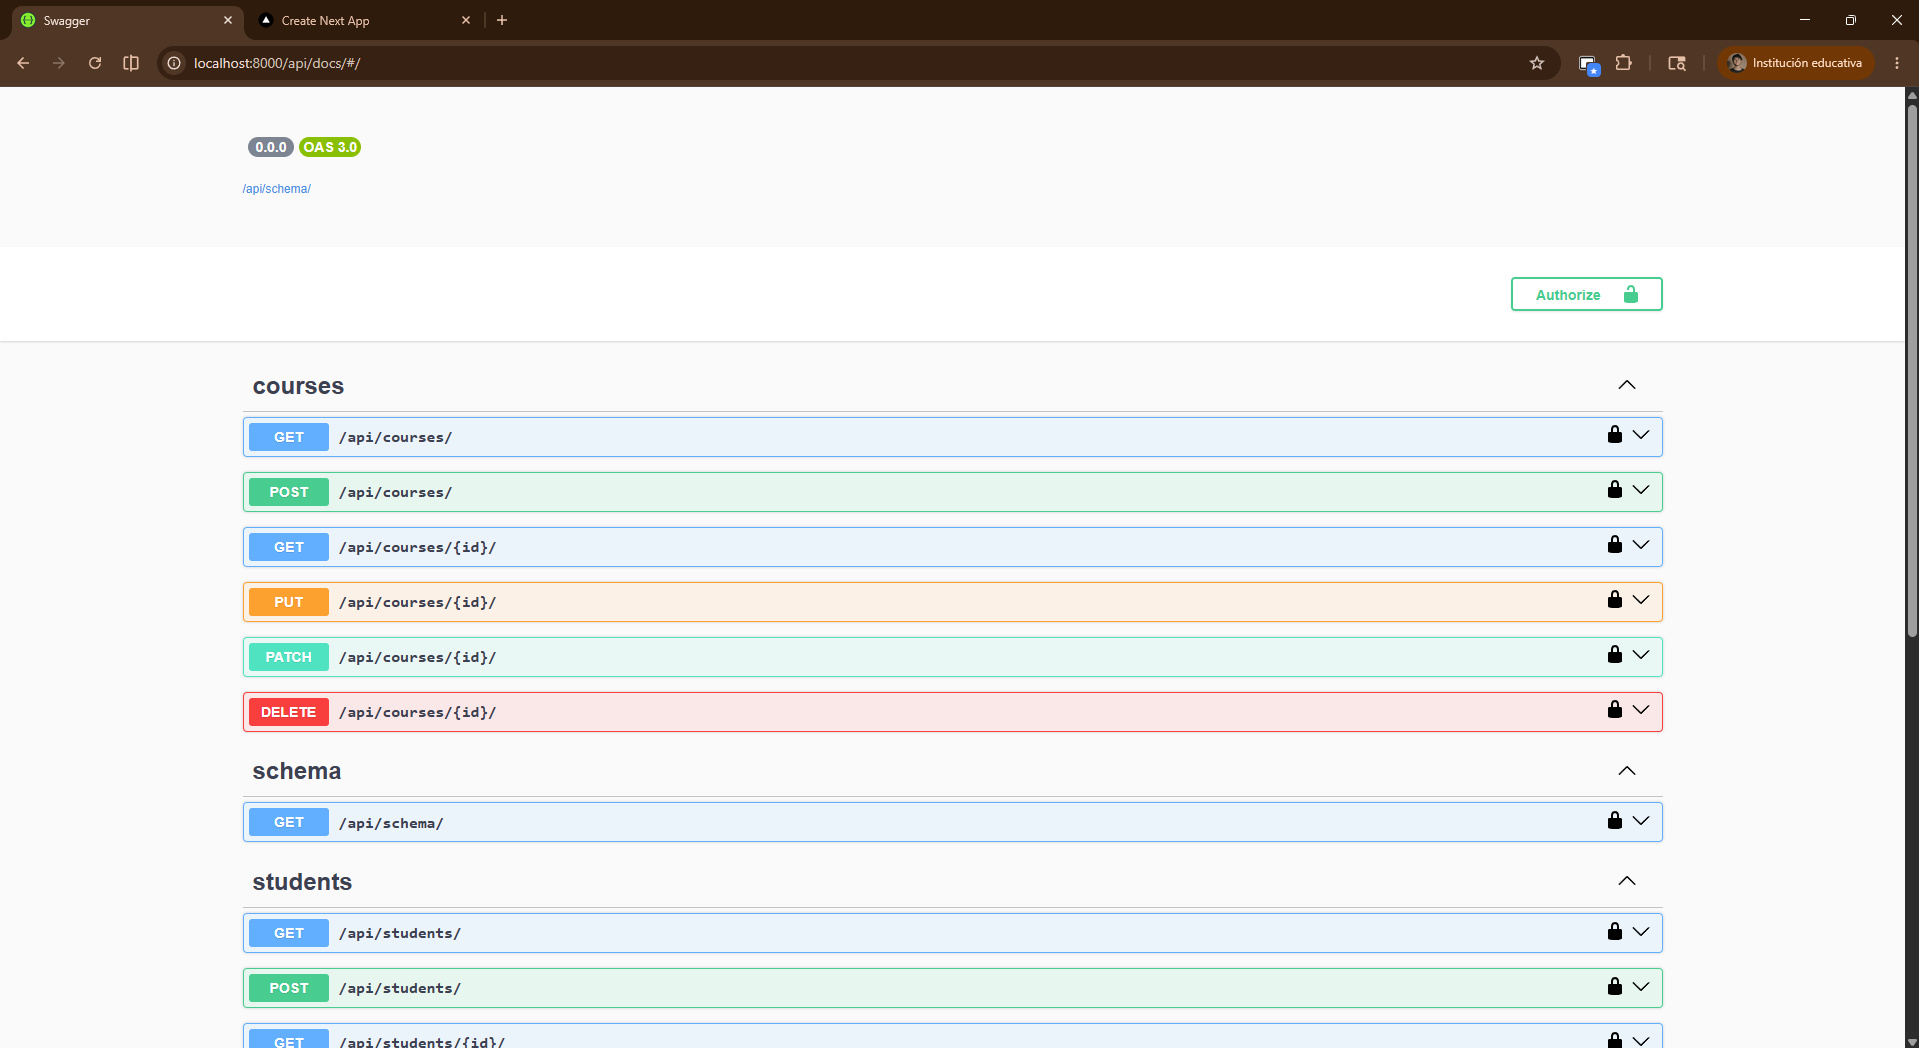
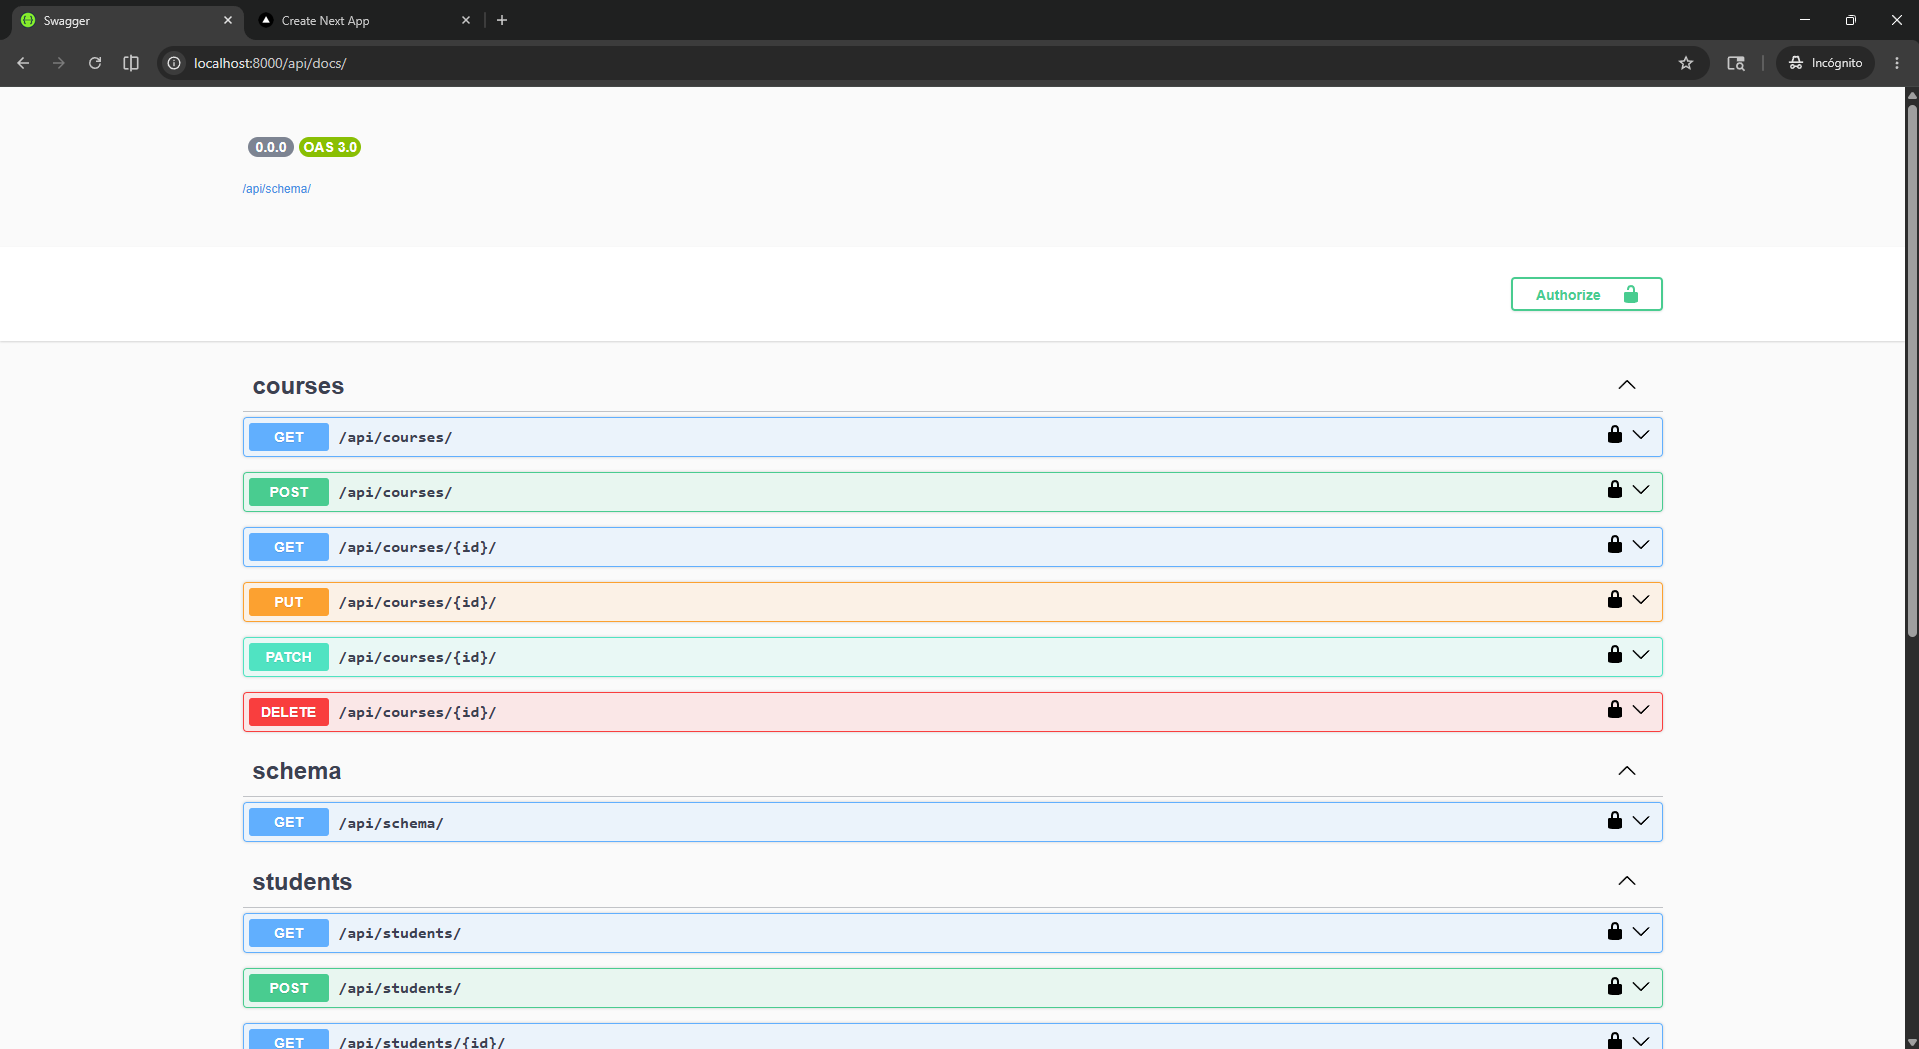
Finalizado: Formulario de cursos con checkbox Activo y evidencias actualizadas

diff --git a/frontend/src/components/ui/checkbox.jsx b/frontend/src/components/ui/checkbox.jsx
@@ -1,0 +1,29 @@
+"use client"
+
+import { Checkbox as CheckboxPrimitive } from "@base-ui/react/checkbox"
+
+import { cn } from "@/lib/utils"
+import { CheckIcon } from "lucide-react"
+
+function Checkbox({
+  className,
+  ...props
+}) {
+  return (
+    <CheckboxPrimitive.Root
+      data-slot="checkbox"
+      className={cn(
+        "peer relative flex size-4 shrink-0 items-center justify-center rounded-[4px] border border-input transition-colors outline-none group-has-disabled/field:opacity-50 after:absolute after:-inset-x-3 after:-inset-y-2 focus-visible:border-ring focus-visible:ring-3 focus-visible:ring-ring/50 disabled:cursor-not-allowed disabled:opacity-50 aria-invalid:border-destructive aria-invalid:ring-3 aria-invalid:ring-destructive/20 aria-invalid:aria-checked:border-primary dark:bg-input/30 dark:aria-invalid:border-destructive/50 dark:aria-invalid:ring-destructive/40 data-checked:border-primary data-checked:bg-primary data-checked:text-primary-foreground dark:data-checked:bg-primary",
+        className
+      )}
+      {...props}>
+      <CheckboxPrimitive.Indicator
+        data-slot="checkbox-indicator"
+        className="grid place-content-center text-current transition-none [&>svg]:size-3.5">
+        <CheckIcon />
+      </CheckboxPrimitive.Indicator>
+    </CheckboxPrimitive.Root>
+  );
+}
+
+export { Checkbox }

diff --git a/frontend/src/app/dashboard/courses/page.jsx b/frontend/src/app/dashboard/courses/page.jsx
@@ -34,6 +34,8 @@ import {
   SelectValue,
 } from "@/components/ui/select";
 import { AlertCircle, CheckCircle2 } from "lucide-react";
+import { Checkbox } from "@/components/ui/checkbox";
+
 
 const coursesSchema = z.object({
   name: z.string().min(2, "El nombre debe tener al menos 2 caracteres"),
@@ -48,6 +50,7 @@ const coursesSchema = z.object({
     ["basic", "intermediate", "advanced"],
     "Selecciona un nivel válido",
   ),
+  is_active: z.boolean().default(true),
 });
 const LEVEL_LABELS = {
   basic: "Básico",
@@ -66,7 +69,7 @@ export default function CoursesPage() {
     handleSubmit,
     reset,
     control,
-    formState: { errors, isSubmitting },
+    ...rest
   } = useForm({
     resolver: zodResolver(coursesSchema),
     defaultValues: {
@@ -75,8 +78,11 @@ export default function CoursesPage() {
       price: 0,
       duration_hours: 0,
       level: "basic",
+      is_active: true,
     },
   });
+
+  const { errors, isSubmitting } = rest.formState;
 
   const loadCourses = async () => {
     try {
@@ -107,7 +113,7 @@ export default function CoursesPage() {
     } catch (err) {
       setError(
         err.response?.data?.detail ||
-          "Error al crear el curso. Es posible que el nombre ya exista.",
+        "Error al crear el curso. Es posible que el nombre ya exista.",
       );
     }
   };
@@ -187,6 +193,20 @@ export default function CoursesPage() {
                   )}
                 </div>
                 <div className="space-y-2">
+                  <Label htmlFor="is_active">Activo</Label>
+                  <Controller
+                    name="is_active"
+                    control={control}
+                    render={({ field }) => (
+                      <Checkbox
+                        id="is_active"
+                        checked={field.value}
+                        onCheckedChange={field.onChange}
+                      />
+                    )}
+                  />
+                </div>
+                <div className="space-y-2">
                   <Label htmlFor="level">Nivel</Label>
                   <Controller
                     name="level"
@@ -198,7 +218,6 @@ export default function CoursesPage() {
                       >
                         <SelectTrigger>
                           <SelectValue>
-                            {/* Este truco fuerza a mostrar la etiqueta del diccionario si hay un valor seleccionado */}
                             {field.value
                               ? LEVEL_LABELS[field.value]
                               : "Selecciona un nivel"}
@@ -214,6 +233,7 @@ export default function CoursesPage() {
                       </Select>
                     )}
                   />
+
                   {errors.level && (
                     <p className="text-sm text-red-500">
                       {errors.level.message}